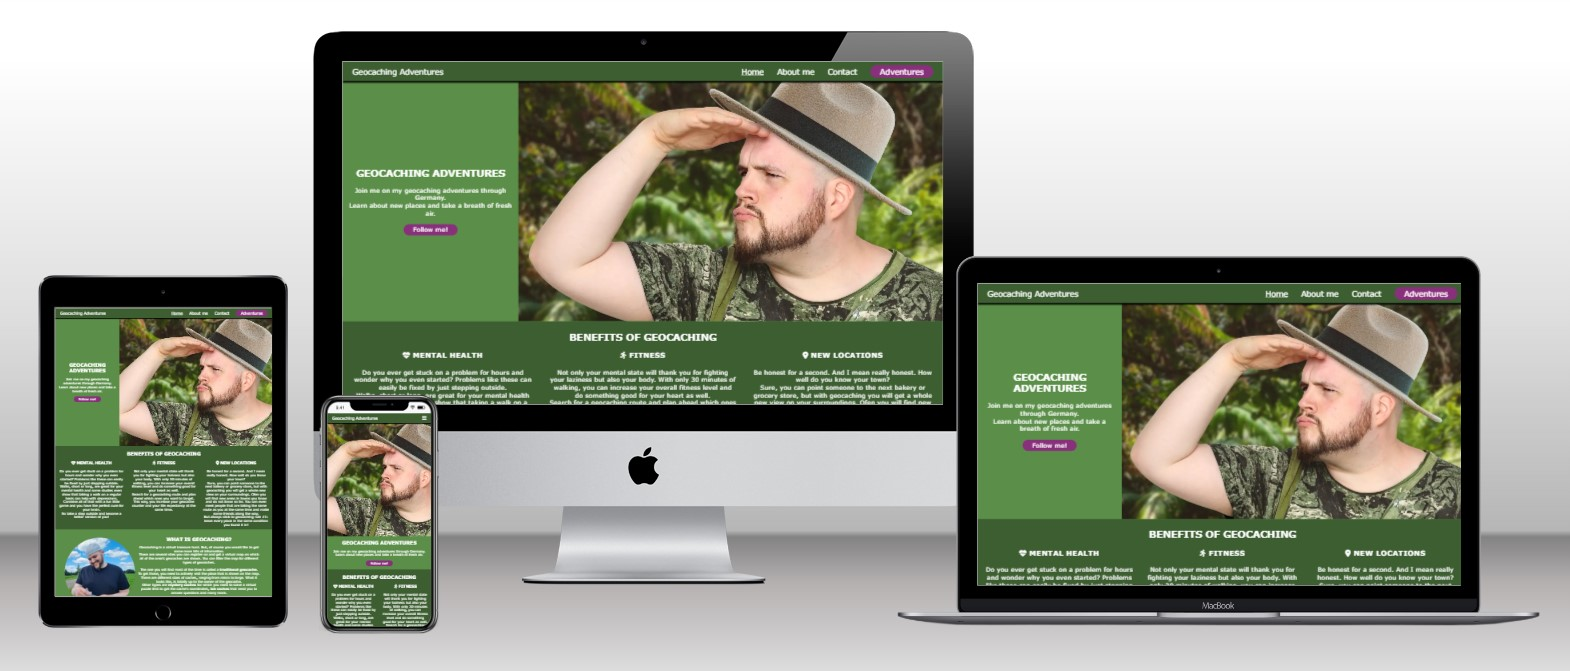
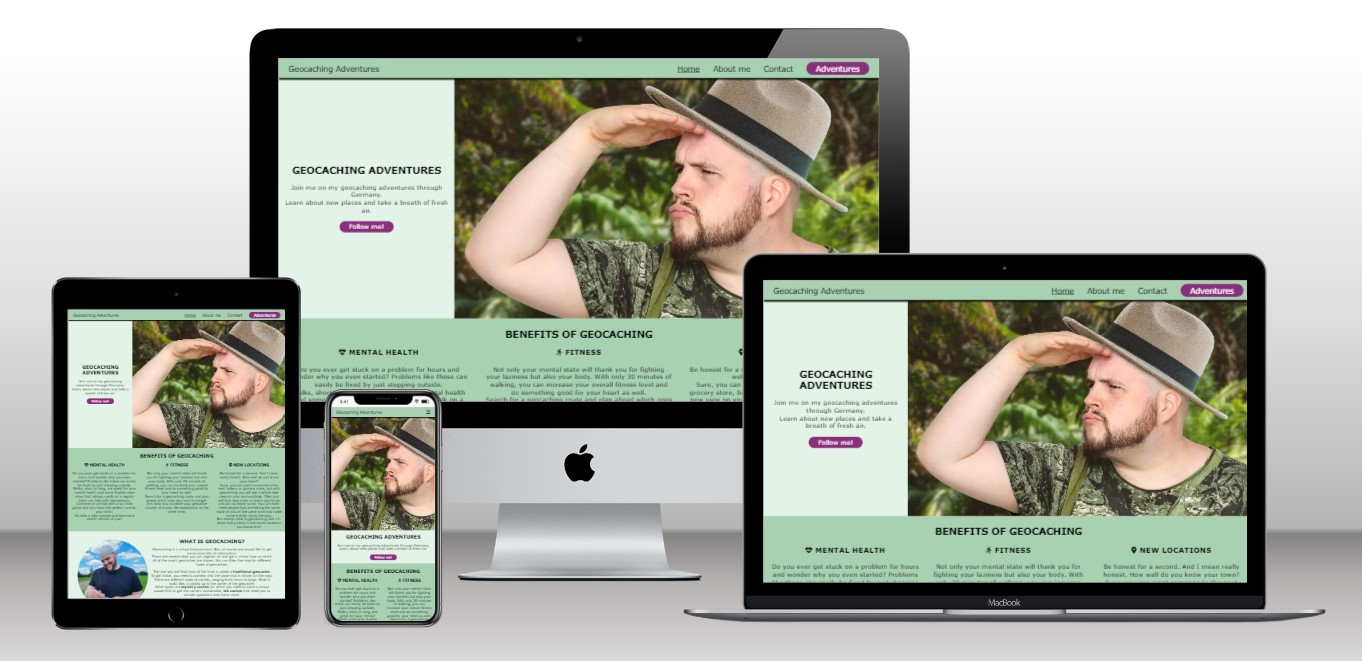
Update mockup image in readme and add credits

diff --git a/README.md b/README.md
@@ -102,6 +102,7 @@ The live page can be viewed here: [Link to Geocaching Adventures](https://ci-dom
 [**CREDITS**](#credits)
   * [PicturePeople Leverkusen](#picturepeople-leverkusen-photo-studio)
   * [Fontawesome](#fontawesome-1)
+  * [Techsini](#techsini)
   * [YouTube](#youtube)
   * [Pixabay](#pixabay)
   * [Pexels](#pexels)
@@ -431,6 +432,9 @@ Lastly, the colours of the homepage were chosen to ensure enough contrast for vi
 
 ### Fontawesome
 * Links to several icons
+
+### Techsini
+* Used to create the mockup in the readme file
 
 ### YouTube
 * Several videos for learning
